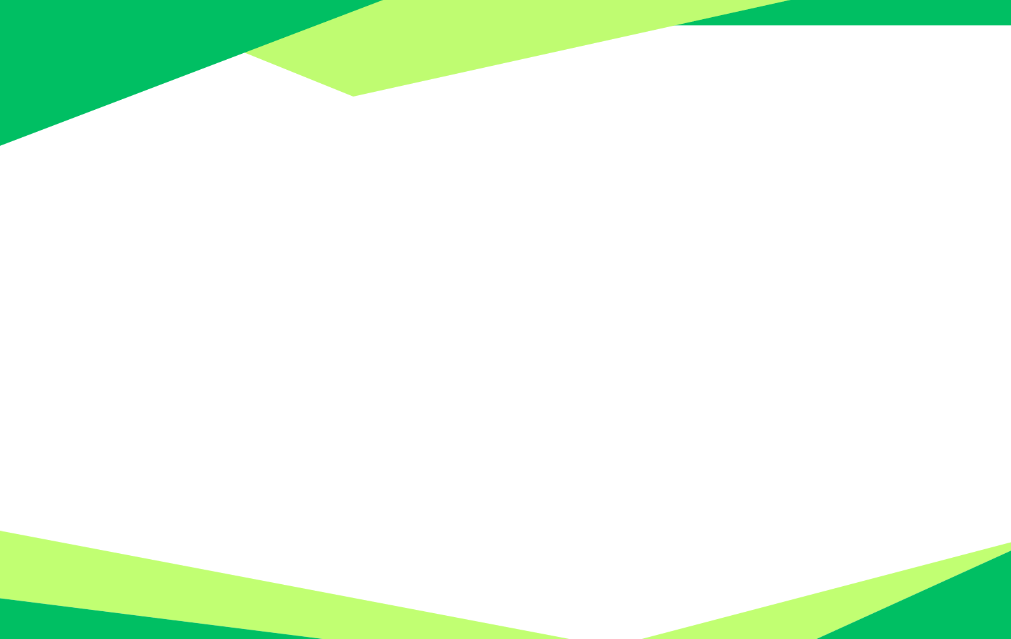
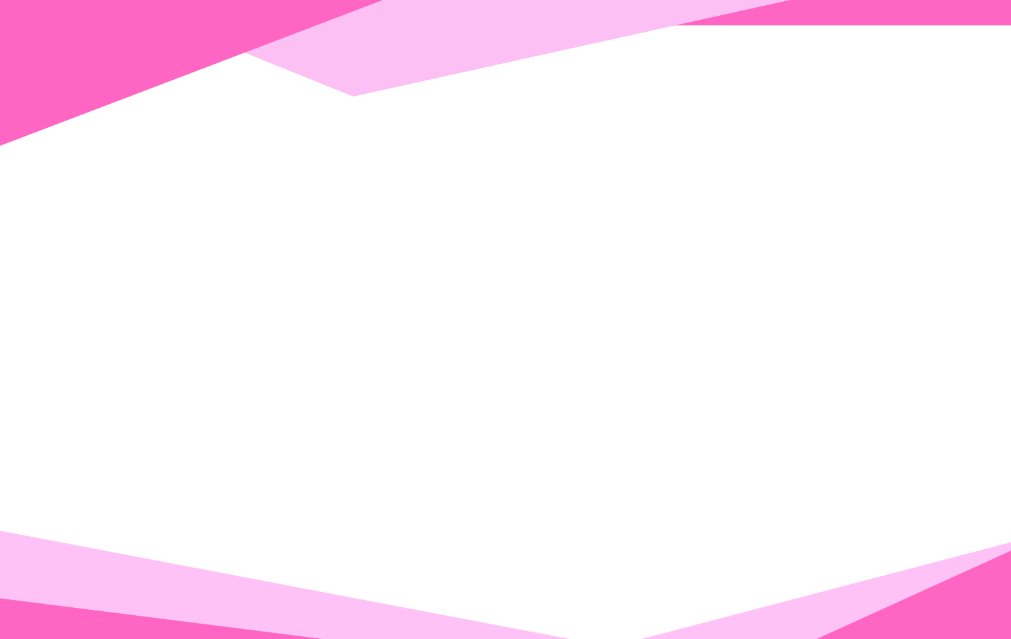
update theme and id

Changed region(s): [[0.0, 0.0, 1.0, 0.2379], [0.0, 0.8326, 0.5519, 1.0], [0.6439, 0.8326, 1.0, 1.0]]

diff --git a/tailwind.config.js b/tailwind.config.js
@@ -19,10 +19,14 @@ export default {
             },
             colors: {
                 sk: {
-                    green: '#059669', // Emerald 600
-                    darkgreen: '#047857', // Emerald 700
-                    yellow: '#FBBF24', // Amber 400
-                    lightyellow: '#FDE68A', // Amber 200
+                    // Hot Magenta Pink from the poster
+                    green: '#e62b85',
+                    // Darker Magenta for hover states and dark text
+                    darkgreen: '#b81665',
+
+                    // Keeping the yellow accents (matches the "LIBRENG" text in your poster!)
+                    yellow: '#FBBF24',
+                    lightyellow: '#FDE68A',
                 }
             }
         },

diff --git a/resources/css/app.css b/resources/css/app.css
@@ -21,8 +21,8 @@
 }
 
 .hero-pattern {
-    background-color: #059669;
-    background-image: linear-gradient(135deg, rgba(5, 150, 105, 0.9) 0%, rgba(4, 120, 87, 0.95) 100%), url('https://images.unsplash.com/photo-1529156069898-49953e39b3ac?ixlib=rb-4.0.3&auto=format&fit=crop&w=2000&q=80');
+    background-color: #ff00ea;
+    background-image: linear-gradient(135deg, rgba(248, 60, 207, 0.9) 0%, rgba(4, 120, 87, 0.95) 100%), url('https://images.unsplash.com/photo-1529156069898-49953e39b3ac?ixlib=rb-4.0.3&auto=format&fit=crop&w=2000&q=80');
     background-size: cover;
     background-position: center;
     background-attachment: fixed;

diff --git a/resources/views/landing/partials/navbar.blade.php b/resources/views/landing/partials/navbar.blade.php
@@ -5,34 +5,34 @@
 
             <!-- Logo -->
             <div class="flex-shrink-0 flex items-center gap-3">
-                <img src="{{ asset('images/logo.jpg') }}" alt="SK Logo" class="w-12 h-12 rounded-full shadow-md border-2 border-yellow-400 object-contain bg-white">
+                <img src="{{ asset('images/logo.jpg') }}" alt="SK Logo" class="w-12 h-12 rounded-full shadow-md border-2 border-sk-yellow object-contain bg-white">
                 <div>
-                    <h1 class="font-bold text-xl text-green-800 leading-tight">Brgy. Poblacion</h1>
+                    <h1 class="font-bold text-xl text-sk-darkgreen leading-tight">Brgy. Poblacion</h1>
                     <p class="text-[11px] text-gray-500 font-bold tracking-widest uppercase">Sangguniang Kabataan</p>
                 </div>
             </div>
 
             <!-- Desktop Menu -->
             <div class="hidden md:flex items-center space-x-8">
-                <a href="#home" class="text-gray-600 hover:text-green-600 font-bold transition-colors">Home</a>
-                <a href="#disclosure" class="text-gray-600 hover:text-green-600 font-bold transition-colors">Public Disclosure</a>
-                <a href="#projects" class="text-gray-600 hover:text-green-600 font-bold transition-colors">Projects</a>
-                <a href="#sk-id" class="text-gray-600 hover:text-green-600 font-bold transition-colors">SK ID</a>
-                <a href="#about" class="text-gray-600 hover:text-green-600 font-bold transition-colors">About Us</a>
+                <a href="#home" class="text-gray-600 hover:text-sk-green font-bold transition-colors">Home</a>
+                <a href="#disclosure" class="text-gray-600 hover:text-sk-green font-bold transition-colors">Public Disclosure</a>
+                <a href="#projects" class="text-gray-600 hover:text-sk-green font-bold transition-colors">Projects</a>
+                <a href="#sk-id" class="text-gray-600 hover:text-sk-green font-bold transition-colors">SK ID</a>
+                <a href="#about" class="text-gray-600 hover:text-sk-green font-bold transition-colors">About Us</a>
 
                 <!-- Desktop Auth Links -->
                 <div class="flex items-center gap-4 pl-6 border-l border-gray-200">
                     @if (Route::has('login'))
                         @auth
-                            <a href="{{ url('/dashboard') }}" class="px-5 py-2.5 bg-[#00a651] text-white font-bold rounded-lg hover:bg-green-700 transition-colors shadow-sm text-sm flex items-center gap-2">
+                            <a href="{{ url('/dashboard') }}" class="px-5 py-2.5 bg-sk-green text-white font-bold rounded-lg hover:bg-sk-darkgreen transition-colors shadow-sm text-sm flex items-center gap-2">
                                 <i class="fas fa-home"></i> Dashboard
                             </a>
                         @else
-                            <a href="{{ route('login') }}" class="text-sm font-bold text-gray-600 hover:text-green-600 transition-colors">
+                            <a href="{{ route('login') }}" class="text-sm font-bold text-gray-600 hover:text-sk-green transition-colors">
                                 Log in
                             </a>
                             @if (Route::has('register'))
-                                <a href="{{ route('register') }}" class="px-5 py-2.5 bg-[#00a651] text-white font-bold rounded-lg hover:bg-green-700 transition-colors shadow-sm text-sm">
+                                <a href="{{ route('register') }}" class="px-5 py-2.5 bg-sk-green text-white font-bold rounded-lg hover:bg-sk-darkgreen transition-colors shadow-sm text-sm">
                                     Register
                                 </a>
                             @endif
@@ -43,7 +43,7 @@
 
             <!-- Mobile Menu Button (Uses direct onclick) -->
             <div class="md:hidden flex items-center">
-                <button onclick="toggleMobileMenu()" class="text-gray-600 hover:text-green-600 focus:outline-none p-2 rounded-lg bg-gray-50 border border-gray-100 transition-colors">
+                <button onclick="toggleMobileMenu()" class="text-gray-600 hover:text-sk-green focus:outline-none p-2 rounded-lg bg-gray-50 border border-gray-100 transition-colors">
                     <i id="mobile-menu-icon" class="fas fa-bars text-xl w-6 h-6 flex items-center justify-center"></i>
                 </button>
             </div>
@@ -54,19 +54,19 @@
     <div id="mobile-menu" class="hidden md:hidden absolute top-full left-0 w-full bg-white border-t border-gray-100 shadow-xl pb-4">
         <div class="px-4 pt-4 pb-2 space-y-2">
             <!-- Notice each link also calls toggleMobileMenu() to close it when tapped -->
-            <a href="#home" onclick="toggleMobileMenu()" class="block px-4 py-3 text-base font-bold text-gray-700 hover:text-green-600 hover:bg-green-50 rounded-xl transition-colors">
+            <a href="#home" onclick="toggleMobileMenu()" class="block px-4 py-3 text-base font-bold text-gray-700 hover:text-sk-green hover:bg-pink-50 rounded-xl transition-colors">
                 <i class="fas fa-home w-6 text-center mr-2 text-gray-400"></i> Home
             </a>
-            <a href="#disclosure" onclick="toggleMobileMenu()" class="block px-4 py-3 text-base font-bold text-gray-700 hover:text-green-600 hover:bg-green-50 rounded-xl transition-colors">
+            {{-- <a href="#disclosure" onclick="toggleMobileMenu()" class="block px-4 py-3 text-base font-bold text-gray-700 hover:text-sk-green hover:bg-pink-50 rounded-xl transition-colors">
                 <i class="fas fa-folder-open w-6 text-center mr-2 text-gray-400"></i> Public Disclosure
             </a>
-            <a href="#projects" onclick="toggleMobileMenu()" class="block px-4 py-3 text-base font-bold text-gray-700 hover:text-green-600 hover:bg-green-50 rounded-xl transition-colors">
+            <a href="#projects" onclick="toggleMobileMenu()" class="block px-4 py-3 text-base font-bold text-gray-700 hover:text-sk-green hover:bg-pink-50 rounded-xl transition-colors">
                 <i class="fas fa-calendar-alt w-6 text-center mr-2 text-gray-400"></i> Projects
             </a>
-            <a href="#sk-id" onclick="toggleMobileMenu()" class="block px-4 py-3 text-base font-bold text-gray-700 hover:text-green-600 hover:bg-green-50 rounded-xl transition-colors">
-                <i class="fas fa-id-card w-6 text-center mr-2 text-gray-400"></i> SK ID
+            <a href="#sk-id" onclick="toggleMobileMenu()" class="block px-4 py-3 text-base font-bold text-gray-700 hover:text-sk-green hover:bg-pink-50 rounded-xl transition-colors">
+                <i class="fas fa-id-card w-6 text-center mr-2 text-gray-400"></i> SK ID --}}
             </a>
-            <a href="#about" onclick="toggleMobileMenu()" class="block px-4 py-3 text-base font-bold text-gray-700 hover:text-green-600 hover:bg-green-50 rounded-xl transition-colors">
+            <a href="#about" onclick="toggleMobileMenu()" class="block px-4 py-3 text-base font-bold text-gray-700 hover:text-sk-green hover:bg-pink-50 rounded-xl transition-colors">
                 <i class="fas fa-info-circle w-6 text-center mr-2 text-gray-400"></i> About Us
             </a>
 
@@ -74,7 +74,7 @@
             <div class="border-t border-gray-100 pt-4 mt-2 px-2">
                 @if (Route::has('login'))
                     @auth
-                        <a href="{{ url('/dashboard') }}" class="block px-4 py-3 text-center text-base font-bold text-white bg-[#00a651] hover:bg-green-700 rounded-xl shadow-md transition-colors">
+                        <a href="{{ url('/dashboard') }}" class="block px-4 py-3 text-center text-base font-bold text-white bg-sk-green hover:bg-sk-darkgreen rounded-xl shadow-md transition-colors">
                             Go to Dashboard <i class="fas fa-arrow-right ml-1"></i>
                         </a>
                     @else
@@ -83,7 +83,7 @@
                                 Log in
                             </a>
                             @if (Route::has('register'))
-                                <a href="{{ route('register') }}" class="block px-4 py-3 text-center text-base font-bold text-white bg-[#00a651] hover:bg-green-700 rounded-xl shadow-md transition-colors">
+                                <a href="{{ route('register') }}" class="block px-4 py-3 text-center text-base font-bold text-white bg-sk-green hover:bg-sk-darkgreen rounded-xl shadow-md transition-colors">
                                     Register
                                 </a>
                             @endif

diff --git a/resources/views/landing/partials/footer.blade.php b/resources/views/landing/partials/footer.blade.php
@@ -1,24 +1,21 @@
 <!-- Call to Action Section -->
 <!-- CTA Section -->
 <section class="py-20 relative overflow-hidden">
-    <div class="absolute inset-0 bg-[#00a651]"></div>
+    <!-- Updated to use your new pink sk-green theme variable -->
+    <div class="absolute inset-0 bg-sk-green"></div>
     <!-- Abstract pattern overlay -->
     <div class="absolute inset-0 opacity-10" style="background-image: radial-gradient(#FBBF24 2px, transparent 2px); background-size: 30px 30px;"></div>
 
     <div class="max-w-4xl mx-auto px-4 relative z-10 text-center">
         <h2 class="text-3xl md:text-5xl font-black text-white mb-6 tracking-tight">Be a Catalyst for Change</h2>
-        <p class="text-emerald-100 text-lg mb-10 max-w-2xl mx-auto font-medium leading-relaxed">
+        <!-- Changed emerald-100 to pink-100 for better blending -->
+        <p class="text-pink-100 text-lg mb-10 max-w-2xl mx-auto font-medium leading-relaxed">
             Do you have ideas to improve our community? We want to hear from you. Volunteer for our programs or suggest a new initiative today.
         </p>
         <div class="flex flex-col sm:flex-row gap-4 justify-center">
 
-            {{-- <!-- Volunteer Button (You can link this to a volunteer page later) -->
-            <button class="px-8 py-4 rounded-xl bg-white text-[#00a651] font-bold text-lg hover:bg-gray-50 hover:shadow-xl transition-all transform hover:-translate-y-1">
-                <i class="fas fa-hands-helping mr-2"></i> Become a Volunteer
-            </button> --}}
-
             <!-- Suggestion Button (Triggers Modal) -->
-            <button onclick="openSuggestionModal()" class="px-8 py-4 rounded-xl bg-yellow-400 text-green-900 font-bold text-lg hover:bg-yellow-300 hover:shadow-xl transition-all transform hover:-translate-y-1 shadow-lg">
+            <button onclick="openSuggestionModal()" class="px-8 py-4 rounded-xl bg-sk-yellow text-sk-darkgreen font-bold text-lg hover:bg-yellow-300 hover:shadow-xl transition-all transform hover:-translate-y-1 shadow-lg">
                 Suggest an Idea <i class="fas fa-lightbulb ml-1"></i>
             </button>
 
@@ -33,7 +30,7 @@
         <!-- Modal Header -->
         <div class="p-6 border-b border-gray-100 flex justify-between items-center bg-gray-50">
             <h3 class="text-xl font-bold text-gray-900 flex items-center gap-2">
-                <i class="fas fa-lightbulb text-yellow-500"></i> Suggest an Initiative
+                <i class="fas fa-lightbulb text-sk-yellow"></i> Suggest an Initiative
             </h3>
             <button onclick="closeSuggestionModal()" class="text-gray-400 hover:text-gray-600 transition-colors">
                 <i class="fas fa-times text-xl"></i>
@@ -41,21 +38,21 @@
         </div>
 
         <!-- Modal Form -->
-        <!-- Note: Update the action route when you create the backend logic to save this -->
-     <form action="{{ route('suggestions.store') }}" method="POST">
+        <form action="{{ route('suggestions.store') }}" method="POST">
             @csrf
             <div class="p-6 space-y-5">
                 <p class="text-sm text-gray-600 mb-2">Have a project in mind for Brgy. Poblacion? Let the SK Council know!</p>
 
                 <div>
                     <label class="block text-sm font-bold text-gray-700 mb-1">Your Name <span class="text-gray-400 font-normal">(Optional)</span></label>
-                    <input type="text" name="name" class="w-full px-4 py-3 rounded-lg border-gray-300 bg-gray-50 focus:bg-white focus:border-[#00a651] focus:ring focus:ring-green-500/20 transition-colors" placeholder="e.g. Juan Dela Cruz"
+                    <!-- Updated focus rings/borders to sk-green -->
+                    <input type="text" name="name" class="w-full px-4 py-3 rounded-lg border-gray-300 bg-gray-50 focus:bg-white focus:border-sk-green focus:ring focus:ring-sk-green/30 transition-colors" placeholder="e.g. Juan Dela Cruz"
                            @auth value="{{ Auth::user()->name }}" @endauth>
                 </div>
 
                 <div>
                     <label class="block text-sm font-bold text-gray-700 mb-1">Your Idea / Suggestion <span class="text-red-500">*</span></label>
-                    <textarea name="suggestion" rows="4" required class="w-full px-4 py-3 rounded-lg border-gray-300 bg-gray-50 focus:bg-white focus:border-[#00a651] focus:ring focus:ring-green-500/20 transition-colors" placeholder="Tell us how we can improve our barangay..."></textarea>
+                    <textarea name="suggestion" rows="4" required class="w-full px-4 py-3 rounded-lg border-gray-300 bg-gray-50 focus:bg-white focus:border-sk-green focus:ring focus:ring-sk-green/30 transition-colors" placeholder="Tell us how we can improve our barangay..."></textarea>
                 </div>
             </div>
 
@@ -64,7 +61,7 @@
                 <button type="button" onclick="closeSuggestionModal()" class="px-5 py-2.5 bg-white border border-gray-300 text-gray-700 font-bold rounded-xl hover:bg-gray-50 transition-colors shadow-sm">
                     Cancel
                 </button>
-                <button type="submit" class="px-5 py-2.5 bg-[#00a651] text-white font-bold rounded-xl hover:bg-green-700 transition-colors shadow-md flex items-center gap-2">
+                <button type="submit" class="px-5 py-2.5 bg-sk-green text-white font-bold rounded-xl hover:bg-sk-darkgreen transition-colors shadow-md flex items-center gap-2">
                     Submit Idea <i class="fas fa-paper-plane"></i>
                 </button>
             </div>
@@ -99,6 +96,7 @@
             <!-- Brand Info -->
             <div class="md:col-span-12 lg:col-span-4">
                 <div class="flex items-center gap-3 mb-6">
+                    <!-- Automatically uses the new pink sk-green -->
                     <div class="w-10 h-10 rounded-full bg-sk-green flex items-center justify-center text-white font-bold shadow-lg border border-sk-yellow">
                         SK
                     </div>
@@ -175,7 +173,7 @@
         <!-- Copyright -->
         <div class="pt-8 border-t border-gray-800 flex flex-col md:flex-row justify-between items-center gap-4">
             <p class="text-gray-500 text-sm text-center md:text-left">
-                &copy; <span id="year"></span> Sangguniang Kabataan of Brgy. Poblacion. All rights reserved.
+                © <span id="year"></span> Sangguniang Kabataan of Brgy. Poblacion. All rights reserved.
             </p>
             <div class="flex gap-4 text-sm text-gray-500">
                 <a href="#" class="hover:text-white transition-colors">Privacy Policy</a>

diff --git a/resources/views/layouts/admin.blade.php b/resources/views/layouts/admin.blade.php
@@ -16,14 +16,16 @@
 
     <!-- Sidebar -->
     <aside class="w-64 bg-sk-darkgreen text-white flex flex-col shadow-2xl flex-shrink-0">
-        <div class="h-20 flex items-center justify-center border-b border-emerald-800 px-4 gap-3">
+        <!-- Changed border-emerald-800 to border-pink-800 -->
+        <div class="h-20 flex items-center justify-center border-b border-pink-800 px-4 gap-3">
             <div
                 class="w-10 h-10 rounded-full bg-white flex items-center justify-center text-sk-green font-bold text-lg border-2 border-sk-yellow">
                 SK
             </div>
             <div class="flex flex-col">
-                <span class="font-bold text-lg leading-tight text-sk-yellow">Makabataan</span>
-                <span class="text-[10px] uppercase tracking-widest text-emerald-200">Admin Portal</span>
+                <span class="font-bold text-lg leading-tight text-sk-yellow">Poblacion</span>
+                <!-- Changed text-emerald-200 to text-pink-300 -->
+                <span class="text-[10px] uppercase tracking-widest text-pink-300">Admin Portal</span>
             </div>
         </div>
 
@@ -31,49 +33,49 @@
 
             <!-- Dashboard -->
             <a href="{{ route('admin.dashboard') }}"
-                class="flex items-center gap-3 px-4 py-3 rounded-lg font-medium transition-colors {{ request()->routeIs('admin.dashboard') ? 'bg-sk-green text-white shadow-md' : 'text-emerald-100 hover:bg-emerald-800 hover:text-white' }}">
+                class="flex items-center gap-3 px-4 py-3 rounded-lg font-medium transition-colors {{ request()->routeIs('admin.dashboard') ? 'bg-sk-green text-white shadow-md' : 'text-pink-100 hover:bg-pink-800 hover:text-white' }}">
                 <i class="fas fa-chart-line w-5 text-center"></i> Dashboard
             </a>
 
             <!-- Book Categories -->
             <a href="{{ route('admin.categories.index') }}"
-                class="flex items-center gap-3 px-4 py-3 rounded-lg font-medium transition-colors {{ request()->routeIs('admin.categories.*') ? 'bg-sk-green text-white shadow-md' : 'text-emerald-100 hover:bg-emerald-800 hover:text-white' }}">
+                class="flex items-center gap-3 px-4 py-3 rounded-lg font-medium transition-colors {{ request()->routeIs('admin.categories.*') ? 'bg-sk-green text-white shadow-md' : 'text-pink-100 hover:bg-pink-800 hover:text-white' }}">
                 <i class="fas fa-book w-5 text-center"></i> Book Categories
             </a>
 
             <!-- Public Disclosure -->
             <a href="{{ route('admin.disclosure.index') }}"
-                class="flex items-center gap-3 px-4 py-3 rounded-lg font-medium transition-colors {{ request()->routeIs('admin.disclosure.*') ? 'bg-sk-green text-white shadow-md' : 'text-emerald-100 hover:bg-emerald-800 hover:text-white' }}">
+                class="flex items-center gap-3 px-4 py-3 rounded-lg font-medium transition-colors {{ request()->routeIs('admin.disclosure.*') ? 'bg-sk-green text-white shadow-md' : 'text-pink-100 hover:bg-pink-800 hover:text-white' }}">
                 <i class="fas fa-folder-open w-5 text-center"></i> Public Disclosure
             </a>
 
             <!-- Projects & Events -->
             <a href="{{ route('admin.projects.index') }}"
-                class="flex items-center gap-3 px-4 py-3 rounded-lg font-medium transition-colors {{ request()->routeIs('admin.projects.*') ? 'bg-sk-green text-white shadow-md' : 'text-emerald-100 hover:bg-emerald-800 hover:text-white' }}">
+                class="flex items-center gap-3 px-4 py-3 rounded-lg font-medium transition-colors {{ request()->routeIs('admin.projects.*') ? 'bg-sk-green text-white shadow-md' : 'text-pink-100 hover:bg-pink-800 hover:text-white' }}">
                 <i class="fas fa-calendar-alt w-5 text-center"></i> Projects & Events
             </a>
 
             <!-- SK ID Requests -->
             <a href="{{ route('admin.sk_ids.index') }}"
-                class="flex items-center gap-3 px-4 py-3 rounded-lg font-medium transition-colors {{ request()->routeIs('admin.sk_ids.*') ? 'bg-sk-green text-white shadow-md' : 'text-emerald-100 hover:bg-emerald-800 hover:text-white' }}">
+                class="flex items-center gap-3 px-4 py-3 rounded-lg font-medium transition-colors {{ request()->routeIs('admin.sk_ids.*') ? 'bg-sk-green text-white shadow-md' : 'text-pink-100 hover:bg-pink-800 hover:text-white' }}">
                 <i class="fas fa-id-card w-5 text-center"></i> SK ID Requests
             </a>
 
             <!-- Youth Registry -->
             <a href="{{ route('admin.youth_registry') }}"
-                class="flex items-center gap-3 px-4 py-3 rounded-lg font-medium transition-colors {{ request()->routeIs('admin.youth_registry') ? 'bg-sk-green text-white shadow-md' : 'text-emerald-100 hover:bg-emerald-800 hover:text-white' }}">
+                class="flex items-center gap-3 px-4 py-3 rounded-lg font-medium transition-colors {{ request()->routeIs('admin.youth_registry') ? 'bg-sk-green text-white shadow-md' : 'text-pink-100 hover:bg-pink-800 hover:text-white' }}">
                 <i class="fas fa-users w-5 text-center"></i> Youth Registry
             </a>
 
             <!-- Suggestions Box -->
             <a href="{{ route('admin.suggestions') }}"
-                class="flex items-center gap-3 px-4 py-3 rounded-lg font-medium transition-colors {{ request()->routeIs('admin.suggestions') ? 'bg-sk-green text-white shadow-md' : 'text-emerald-100 hover:bg-emerald-800 hover:text-white' }}">
+                class="flex items-center gap-3 px-4 py-3 rounded-lg font-medium transition-colors {{ request()->routeIs('admin.suggestions') ? 'bg-sk-green text-white shadow-md' : 'text-pink-100 hover:bg-pink-800 hover:text-white' }}">
                 <i class="fas fa-lightbulb w-5 text-center"></i> Suggestions Box
             </a>
 
         </nav>
 
-        <div class="p-4 border-t border-emerald-800">
+        <div class="p-4 border-t border-pink-800">
             <form method="POST" action="{{ route('logout') }}">
                 @csrf
                 <button type="submit"
